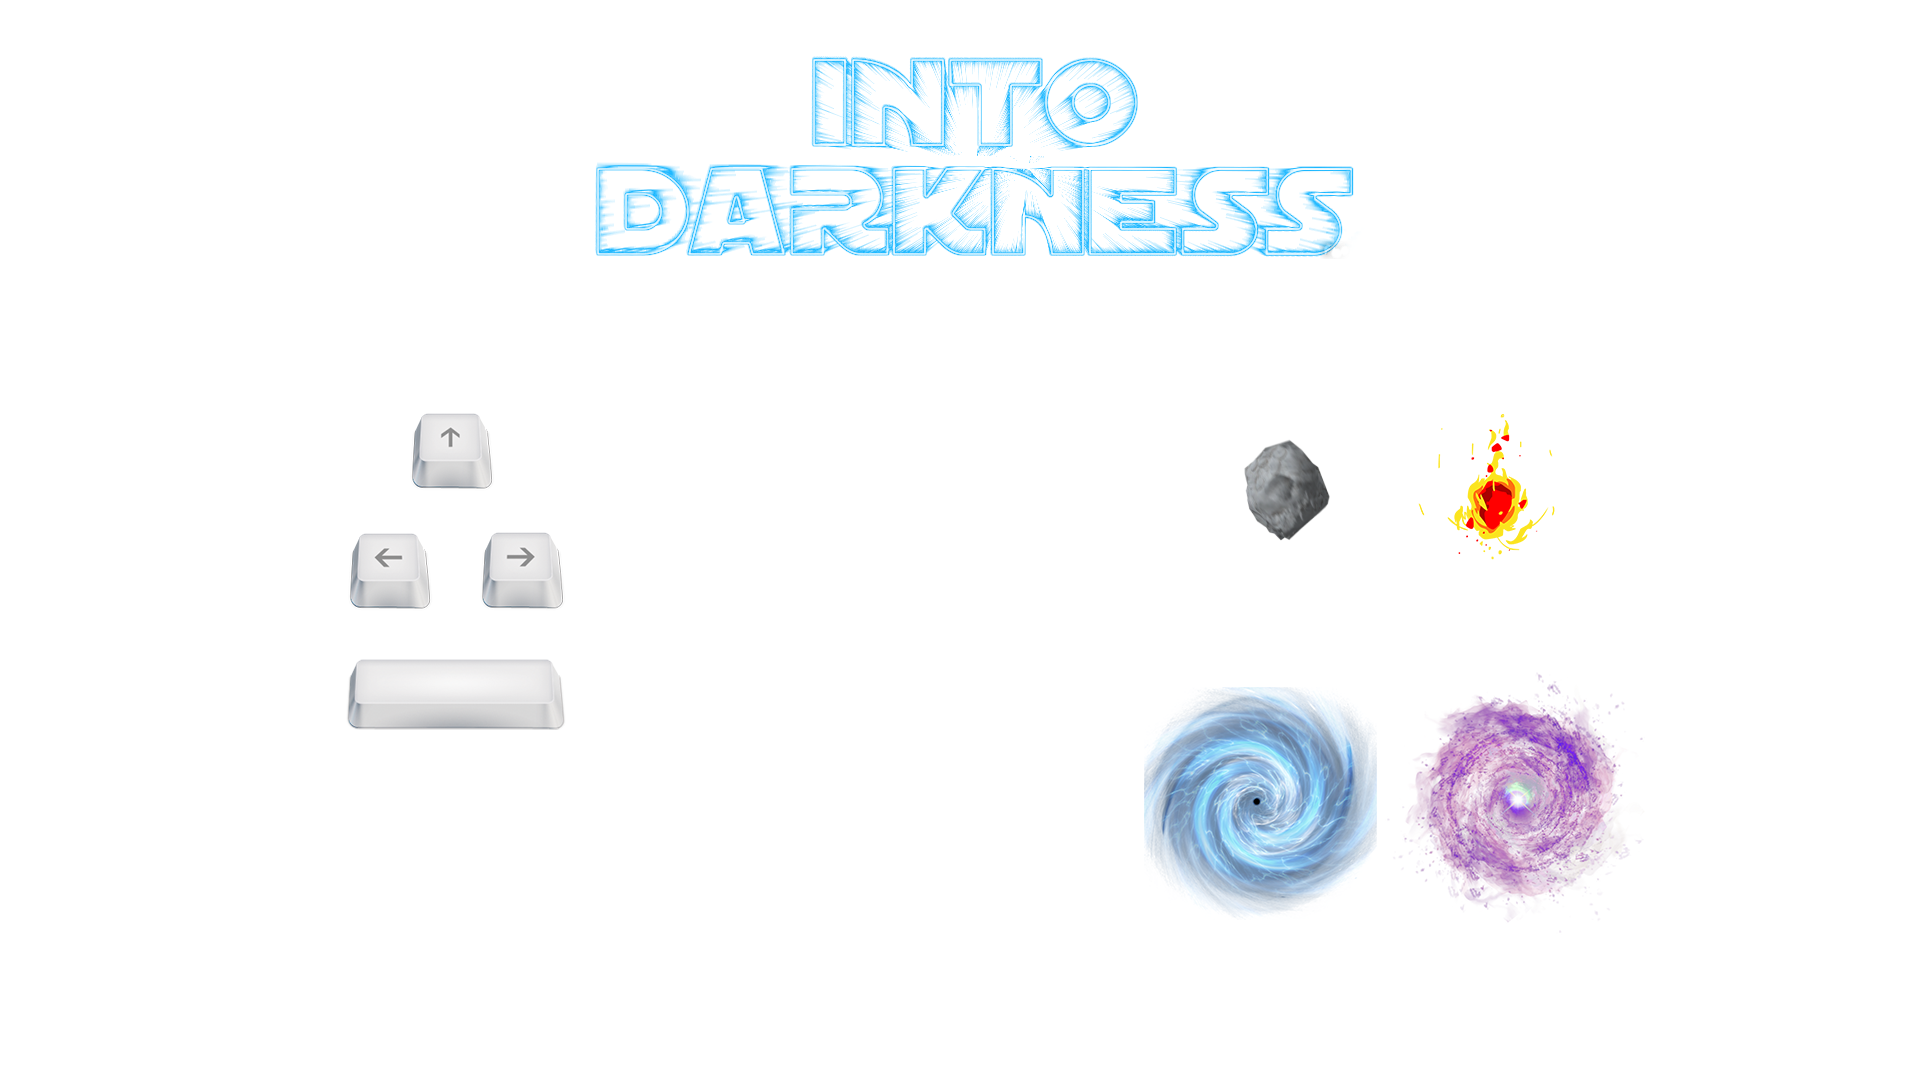
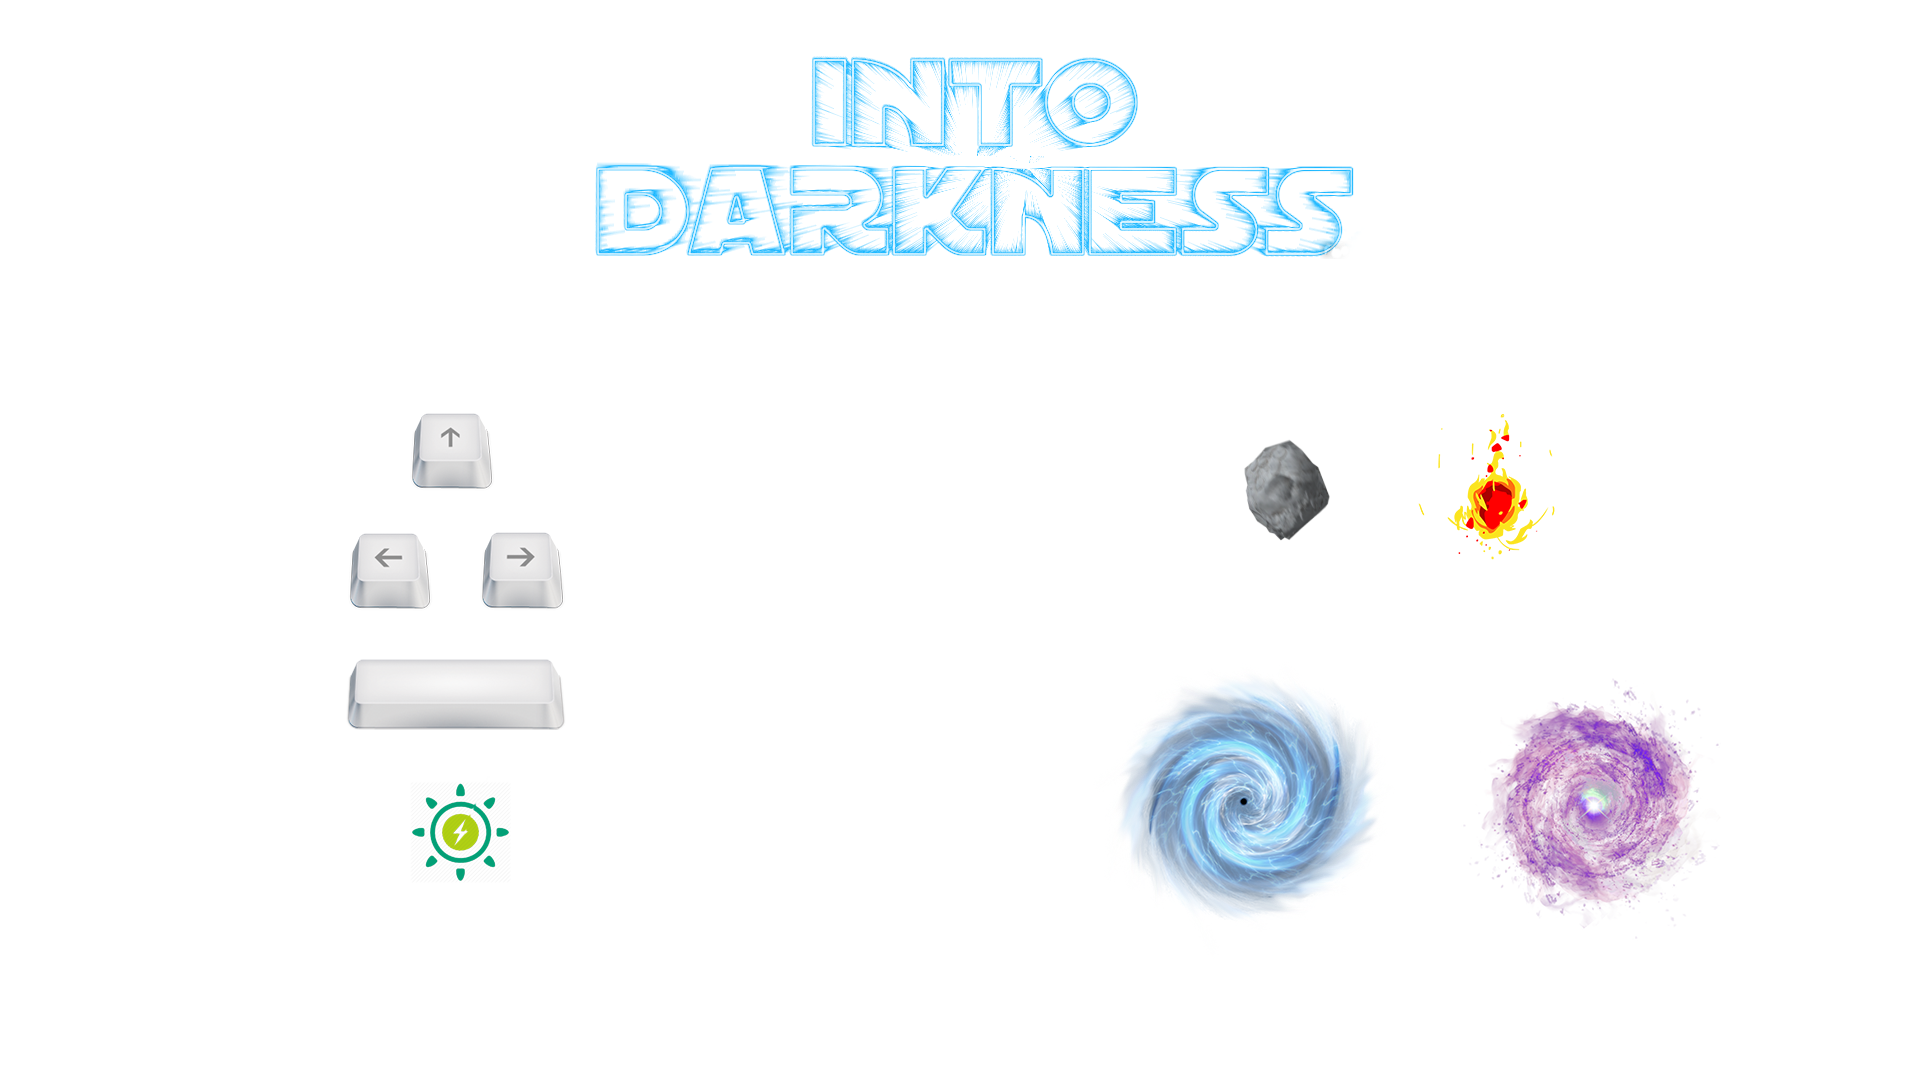
some final improvements

Changed region(s): [[0.5625, 0.6417, 0.9062, 0.8556], [0.2188, 0.7333, 0.2812, 0.825]]

diff --git a/game/js/core.js b/game/js/core.js
@@ -44,6 +44,7 @@ var sound;
 var music;
 
 var acc = 0;
+var touch_acc = false;
 
 //Stats
 var stats_destroyed = 0;
@@ -72,6 +73,7 @@ var assetsLoaded = 0;
 var gameLoaded = false;
 var preLoadBackgrounds = 0, preLoadAsteroids = 0;
 var controlsEnabled = false;
+var asteroidStep = 1.0;
 
 var tek_email = "user@user.com", tek_fname = "user";
 
@@ -226,12 +228,12 @@ function preload() {
 	meteorsprite[1].src = "game/images/asteroids/meteorspriteup.png";
 	meteor_lastshower = new Date().getTime();
 	
-	wormhole[0] = new Image();
-	wormhole[0].onload = onAssetLoad;
-	wormhole[0].src = "game/images/wormhole1.png";
-	wormhole[1] = new Image();
-	wormhole[1].onload = onAssetLoad;
-	wormhole[1].src = "game/images/wormhole2.png";
+	for(var w = 0; w < 5; w++) {
+		wormhole[w] = new Image();
+		wormhole[w].onload = onAssetLoad;
+		wormhole[w].src = "game/images/wormhole" + (w + 1) + ".png";
+	}
+	
 	wormhole_last = new Date().getTime(); //needed for initial delay of wormhole
 	
 	
@@ -320,6 +322,7 @@ function render() {
 	checkBounds();
 	
 	if(new Date().getTime() - asteroids_lastbelt > 5000) {
+		if(asteroidStep < 4.5) asteroidStep += 0.15;
 		asteroids_lastbelt = new Date().getTime(); //set time right over here, the delay causes this part to exec multiple times
 		$.post("ajax/stats.php", { action: 'generate_asteroids' },  function(data) {
 			asteroid_belt(data);
@@ -342,7 +345,7 @@ function render() {
 		wormhole_y = 100 + (Math.random() * (canvas.height - 200));
 		wormhole_last = new Date().getTime();
 		wormholeEnabled = true;
-		wormholeImg = Math.floor(Math.random() * 2);
+		wormholeImg = Math.floor(Math.random() * 5);
 		wormholeCloseTimer = setTimeout("closeWormhole()", 7000);
 	}
 	
@@ -359,7 +362,7 @@ function render() {
 		falcon_tfa = falcon_fa = falcon_fa > 360 ? 0 : falcon_fa;
 	
 	
-	if(keys[38] == true && controlsEnabled) {
+	if(touch_acc || (keys[38] == true && controlsEnabled)) {
 		acc = 3;
 		accelerate(); 
 	}
@@ -520,9 +523,10 @@ function render_objects() {
 	}
 	
 	
+	
 	for(var i = 0; i < asteroids.length; i++) {
-		asteroids[i].x = asteroids[i].x - 4* Math.cos(asteroids[i].angle * Math.PI/180);
-		asteroids[i].y = asteroids[i].y - 4* Math.sin(asteroids[i].angle * Math.PI/180);
+		asteroids[i].x = asteroids[i].x - asteroidStep * Math.cos(asteroids[i].angle * Math.PI/180);
+		asteroids[i].y = asteroids[i].y - asteroidStep * Math.sin(asteroids[i].angle * Math.PI/180);
 		var current_asteroid_radius = asteroid_radius * asteroids[i].size;
 		ctx.drawImage(asteroids[i].img, asteroids[i].x - current_asteroid_radius, asteroids[i].y - current_asteroid_radius, current_asteroid_radius * 2, current_asteroid_radius * 2);
 		
@@ -767,6 +771,13 @@ function onFalconDeath() {
 		var gamedata = JSON.parse(data); //parseInt((JSON.parse(data)).d);	
 		stats_lives = parseInt(gamedata.d);
 		
+		for(var i = 0; i < asteroids.length; i++) {
+			explosions.push({ x:asteroids[i].x, y:asteroids[i].y, spriteid: 0, type: 0 });
+		}
+		asteroids.splice(0, asteroids.length);
+		
+				
+				
 		if(stats_lives < 1) {
 
 			falconInvincible = true;
@@ -836,11 +847,13 @@ function debug() {
 	}
 	ctx.fillText("explosions: [" + explosionString + "]",10, 140);
 	
+	ctx.fillText("asteroidStep: " + asteroidStep.toFixed(2) + " px/sec", 10, 160);
+	
 	ctx.font = '5pt Courier New';
 	var tempString30 = "";
 	for(var i = 0; i < destroyed_asteroids.length; i++) {	
 		tempString30 = destroyed_asteroids[i];
-		ctx.fillText("." + tempString30, 10, 160 + (i * 7));
+		ctx.fillText("." + tempString30, 10, 180 + (i * 7));
 	}
 	
 	
@@ -904,7 +917,7 @@ function saveInfo()
 
 function onAssetLoad(e) {
 	//console.log(e);
-	$("#loadertext").text("Loading Assets: " + Math.floor(++assetsLoaded/(14 + maxAsteroidsIMG + maxBackgroundsIMG) * 100) + "%");
+	$("#loadertext").text("Loading Assets: " + Math.floor(++assetsLoaded/(17 + maxAsteroidsIMG + maxBackgroundsIMG) * 100) + "%");
 	
 	if(assetsLoaded >= 14) {
 		if(!gameLoaded) {

diff --git a/game/js/interface.js b/game/js/interface.js
@@ -1,6 +1,8 @@
 var leaderboardStatus = false;
 var leaderboardData;
 
+var lt, rt, st;
+
 $(document).ready(function() {
 	
 	$("#mutebtn").click(function(){
@@ -28,25 +30,24 @@ $(document).ready(function() {
 	});
 	
 	
-	$("#t-right").on('mousedown touchstart', function(){
+	$("#t-right").on('mousedown', function() {
 		
-		falcon_fa += 5;
-	});
+		rt = setInterval(function() { falcon_fa += 5; }, 20);
+	}).on('mouseup', function() { clearInterval(rt); });
 	
-	$("#t-left").click(function(){
-		
-		falcon_fa -= 5;
-	});
+	$("#t-left").on('mousedown', function() {
+		lt = setInterval(function() { falcon_fa -= 5; }, 20);
+	}).on('mouseup', function() { clearInterval(lt); });
 	
-	$("#t-fire").click(function(){
+	$("#t-fire").on('mousedown', function() {
 		if(!gameStarted) gameScreenProceed();
-		shoot();
-	});
+		at = setInterval(function() { shoot(); }, 100);
+	}).on('mouseup', function() { clearInterval(at); });
 	
-	$("#t-acc").click(function(){
-		acc();
+	$("#t-acc").on('mousedown', function() {
+		touch_acc = true;
+	}).on('mouseup', function() { touch_acc = false; });
 	
-	});
 	
 	
 });

diff --git a/game.php b/game.php
@@ -5,6 +5,7 @@ $_SESSION['tek_fname'] = "player_" . uniqid();
 ?>
 <html>
 <head>
+<meta content='user-scalable=0'/>
 <link rel="stylesheet" href="game/css/style.css"></link>
 <script src="js/jquery-2.1.4.min.js"></script>
 <script src="game/js/core.js"></script>
@@ -22,17 +23,12 @@ $_SESSION['tek_fname'] = "player_" . uniqid();
 <?php 
 if($_GET['m']) {
 ?>
-
-<div id="mobi-footer">
-	<button id="t-left" class="ctr-btn left">LEFT</button>
-	<button id="t-right" class="ctr-btn left">RIGHT</button>
-	
-	<button id="t-fire" class="ctr-btn right">FIRE</button>
-	<button id="t-acc" class="ctr-btn right">ACC</button>
-
-	
-</div>
-
+	<div id="mobi-footer">
+		<button id="t-left" class="ctr-btn left">LEFT</button>
+		<button id="t-right" class="ctr-btn left">RIGHT</button>
+		<button id="t-fire" class="ctr-btn right">FIRE</button>
+		<button id="t-acc" class="ctr-btn right">ACC</button>
+	</div>
 <?php
 }
 ?>
